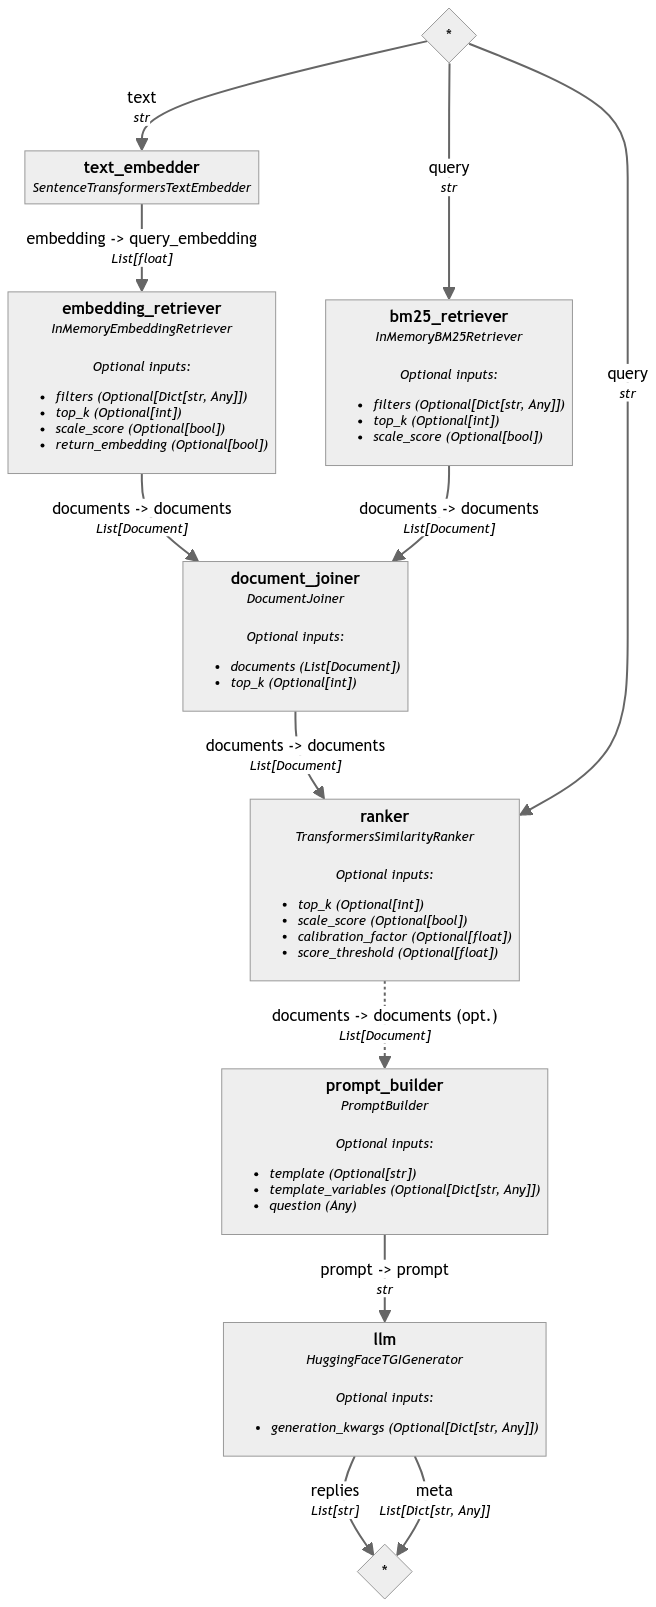
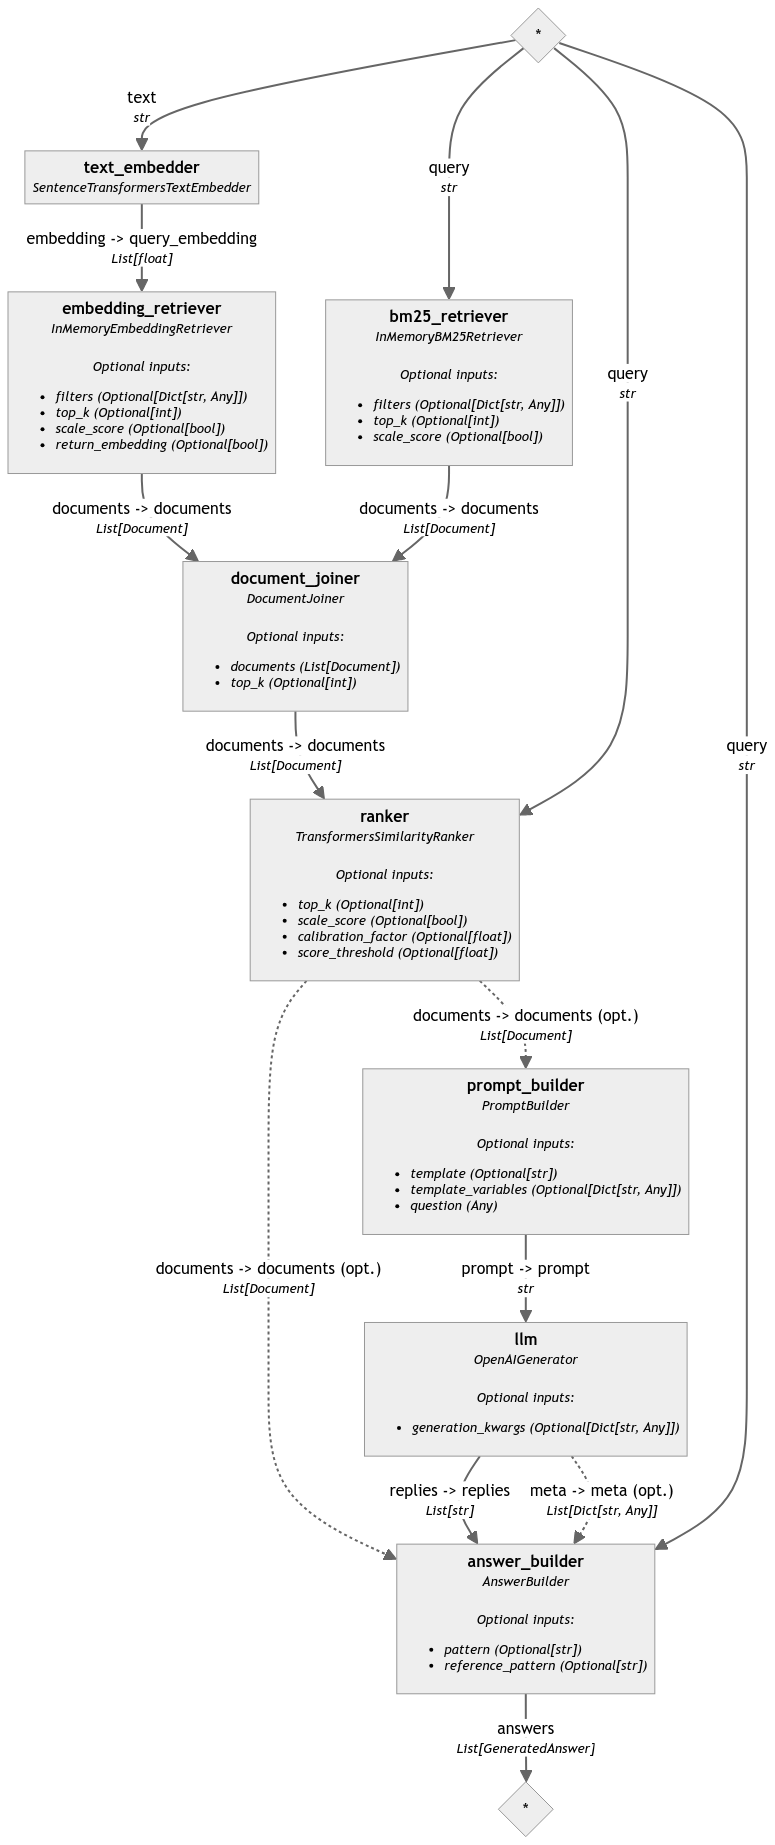
feat: first version of evaluation of rag algorithm/hybrid version w/o external openai model help

diff --git a/main.py b/main.py
@@ -7,9 +7,12 @@ from dotenv import find_dotenv
 from dotenv import load_dotenv
 import yaml
 
-from .wrapper_pipelines import setup_rag_sparse_pipeline
-from .wrapper_pipelines import setup_rag_dense_pipeline
-from .wrapper_pipelines import setup_rag_hybrid_pipeline
+from src.rag_pipelines import setup_rag_sparse_pipeline
+from src.rag_pipelines import setup_rag_dense_pipeline
+from src.rag_pipelines import setup_rag_hybrid_pipeline
+
+from src.utils import create_gt_answer_data, create_question_data
+from src.evaluate import evaluate_rag, build_rag_eval_report
 
 load_dotenv(find_dotenv())
 
@@ -24,9 +27,12 @@ if __name__ == "__main__":
                         help='Enter the query to pass into the LLM')
     args = parser.parse_args()
     QUESTION = args.input
-
     start = timeit.default_timer()
-
+    rag_answers = []
+    retrieved_docs = []
+    rag_questions = []
+    rag_questions.append(QUESTION)
+    gt_answers = create_gt_answer_data()
     if cfg.TYPE_RETRIEVAL == 'dense':
         rag_pipeline = setup_rag_dense_pipeline()
         # Execute the query
@@ -49,23 +55,31 @@ if __name__ == "__main__":
         REPLIES = json_response['llm']['replies']
     elif cfg.TYPE_RETRIEVAL == 'hybrid':
         rag_pipeline = setup_rag_hybrid_pipeline()
-        json_response = rag_pipeline.run(
+        response = rag_pipeline.run(
             {
                 "text_embedder": {"text": QUESTION},
                 "bm25_retriever": {"query": QUESTION},
                 "document_joiner": {"top_k": 5},
                 "ranker": {"query": QUESTION},
                 "prompt_builder": {"question": QUESTION},
-                "llm": {"generation_kwargs":
-                        {"max_new_tokens": 500}}
+                "answer_builder": {"query": QUESTION}
             }
         )
-        print(json_response)
+     
 
     else:
         REPLIES = None
     end = timeit.default_timer()
-    REPLIES = json_response['llm']['replies'][0]
+    # REPLIES = response['llm']['replies'][0]
+    rag_answers.append(response["answer_builder"]["answers"][0].data)
+    retrieved_docs.append(response["answer_builder"]["answers"][0].documents)
+    rag_questions.append(QUESTION)
+    print(type(gt_answers))
+    print(type(gt_answers[0]))
+    print(gt_answers[0])
+    inputs, results = evaluate_rag(QUESTION, rag_answers, 
+                                   gt_answers, retrieved_docs)
+    build_rag_eval_report(inputs, results)
     ANSWER = 'No answer found'
     if REPLIES:
         ANSWER = REPLIES[0].strip()

diff --git a/src/evaluate.py b/src/evaluate.py
@@ -1,0 +1,49 @@
+""""""
+from haystack.evaluation.eval_run_result import EvaluationRunResult
+import pandas as pd 
+
+from .eval_pipelines import evaluate_gt_pipeline
+
+
+def evaluate_rag(QUESTION, rag_answers, 
+                                   gt_answers, retrieved_docs):
+    """Evaluate rag algorithm with ground truth data."""
+    #rag_answers, retrieved_docs, rag_questions = [], [], []
+    print(len(gt_answers))
+    print(retrieved_docs)
+    print(len(rag_answers))
+    print(len(QUESTION))
+    eval_pipeline = evaluate_gt_pipeline()
+    results = eval_pipeline.run({
+        "doc_mrr_evaluator": {"ground_truth_documents": 
+                          list([ans] for ans in gt_answers) ,
+                          "retrieved_documents": retrieved_docs},
+        "faithfulness": {"questions": list(QUESTION),
+                     "contexts": list([d] 
+                                      for d in retrieved_docs),
+                     "predicted_answers": rag_answers},
+        "sas_evaluator": {"predicted_answers": rag_answers, 
+                      "ground_truth_answers": list(gt_answers)}
+})
+    
+    inputs= {
+        "question": list(QUESTION),
+        "contexts": list([d] for d in retrieved_docs),
+        "answer": list(gt_answers),
+        "predicted_answer": rag_answers,
+        }
+    
+    return inputs, results
+
+
+def build_rag_eval_report(inputs, results):
+    """Build report of evaluation of rag algorithm."""
+    evaluation_result = EvaluationRunResult(run_name="pubmed_rag_pipeline",
+                                            inputs=inputs, results=results)
+    evaluation_result.score_report()
+    results_df = evaluation_result.to_pandas()
+    results_df
+    
+    top_3 = results_df.nlargest(3, 'sas_evaluator')
+    bottom_3 = results_df.nsmallest(3, 'sas_evaluator')
+    pd.concat([top_3, bottom_3])

diff --git a/src/rag_pipelines.py b/src/rag_pipelines.py
@@ -1,5 +1,6 @@
 """Contain wrapper function of separater rag pipeline components."""
 from haystack import Pipeline
+from haystack.components.builders.answer_builder import AnswerBuilder
 from haystack.components.joiners import DocumentJoiner
 from haystack.components.rankers import TransformersSimilarityRanker
 
@@ -81,7 +82,8 @@ def setup_rag_hybrid_pipeline():
     hybrid_pipeline.add_component("ranker", ranker)
     hybrid_pipeline.add_component("prompt_builder", prompt)
     hybrid_pipeline.add_component("llm", llm)
-    print(llm)
+    hybrid_pipeline.add_component(instance=AnswerBuilder(), name="answer_builder")
+  
 
     # Now, connect the components to each other
     hybrid_pipeline.connect("text_embedder",
@@ -92,6 +94,9 @@ def setup_rag_hybrid_pipeline():
     hybrid_pipeline.connect("document_joiner", "ranker")
     hybrid_pipeline.connect("ranker", "prompt_builder.documents")
     hybrid_pipeline.connect("prompt_builder.prompt", "llm.prompt")
+    hybrid_pipeline.connect("llm.replies", "answer_builder.replies")
+    hybrid_pipeline.connect("llm.meta", "answer_builder.meta")
+    hybrid_pipeline.connect("ranker", "answer_builder.documents")
     hybrid_pipeline.draw(path=cfg.PIPELINE_PATH)
 
     return hybrid_pipeline

diff --git a/src/utils.py b/src/utils.py
@@ -1,0 +1,25 @@
+"""Construct utility functions to generate useful data."""
+from haystack import Document
+
+
+def create_gt_answer_data():
+    """Create utility ground truth data - answers for questions."""
+    all_gt_answers = [
+           Document('It was said to be 70 cubits (105 feet [32 metres]) tall, '
+                + 'and it depicted the sun god Helios. Many representations '
+                + 'of the statue depict the figure as nude or semi-nude, '
+                + 'except for a cloak, '
+                + 'and a representation in one relief suggests that the figure '
+                + 'was shielding its eyes with one hand')
+    ]
+    return all_gt_answers
+
+
+def create_question_data():
+    """Create utility question data for seven ancient world wonders."""
+    all_questions = [
+        ['What does Rhodes Statue look like?']
+    ]
+    
+    return all_questions
+

diff --git a/src/eval_pipelines.py b/src/eval_pipelines.py
@@ -1,0 +1,21 @@
+from haystack import Pipeline
+from haystack.components.evaluators.document_mrr import DocumentMRREvaluator
+from haystack.components.evaluators.faithfulness import FaithfulnessEvaluator
+from haystack.components.evaluators.sas_evaluator import SASEvaluator
+
+import box
+import yaml
+
+with open('./src/config.yml', 'r', encoding='utf8') as ymlfile:
+    cfg = box.Box(yaml.safe_load(ymlfile))
+
+
+def evaluate_gt_pipeline():
+    """Build basic evaluation haystack pipeline with ground truth data."""
+    eval_pipeline = Pipeline()
+    eval_pipeline.add_component("doc_mrr_evaluator", DocumentMRREvaluator())
+    eval_pipeline.add_component("faithfulness", FaithfulnessEvaluator())
+    eval_pipeline.add_component("sas_evaluator",
+                                SASEvaluator(model=cfg.EMBEDDINGS))
+    
+    return eval_pipeline
